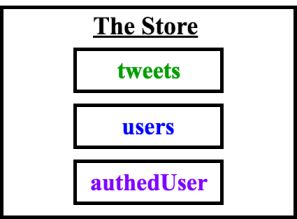
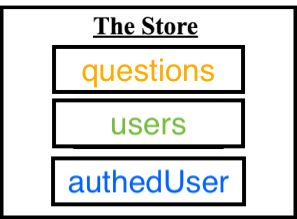
would-you-rather: planning: where does data live?

Changed region(s): [[0.1515, 0.1918, 0.8485, 0.6849], [0.1515, 0.7123, 0.8485, 0.9589], [0.3636, 0.5205, 0.6364, 0.6301]]

diff --git a/README.md b/README.md
@@ -262,7 +262,6 @@ The application will have the following components:
 - Leaderboard
 - User Stats
 
-
 ### What Events Happen in the App
 
 #### SignIn Component
@@ -270,6 +269,8 @@ The application will have the following components:
 ![signin](planning/images/events/01-signin.jpg)
 
 For the Signin component we need a list of users and by selecting a user with will set the user and authedUser and navigate to the Question list component.
+
+- Connected component (users, authedUser)
 
 #### Question List Component
 
@@ -280,6 +281,7 @@ For the Signin component we need a list of users and by selecting a user with wi
 
 So the action type for event this will probably be something like **GET_LIST_OF_QUESTIONS** or **GET_DATA**.
 
+- Connected component (questions, authedUser)
 
 #### Question Component
 
@@ -288,46 +290,46 @@ So the action type for event this will probably be something like **GET_LIST_OF_
 - We get a particular question from a list of questions.
 - We get the author of the specific question as we need the author name and avatar image
 
+- Connected component (questions, users)
 
 #### Question Detail Component
 
 - We get a specific Question from a list of questions.
-- We get the answer to a specific question from a list of questions.
 - We get the author of the specific question as we need the author name and avatar image
 
-If there is no answer from the authedUser
+If the authedUser is not in the `voteArray`
 
 ![question-detail](planning/images/events/03-question.jpg)
 
-  - they can answer the question.
-  - answering the question will use the method `_saveQuestionAnswer`
-  - once the answer is saved the screen will show the results 
+- we will need the author user to get the author's name and avatar.
+- they can answer the question (vote).
+- answering the question will use the method `_saveQuestionAnswer`
+- once the answer is saved the screen will show the results
 
-
-If there is an answer from the authedUser
+If the authedUser is in the `voteArray`
 
 ![question-detail](planning/images/events/03-question-answered.jpg)
 
-- then they can see their chosen answer and the number of people who voted for both options and the percentage of people who voted for the options is shown
-- we will need all the users data so we can collect the answers from the other users and tally a percentage.
+- they can see their chosen answer and the number of people who voted for both options and the percentage of people who voted for the options is shown
+- we can use the `voteArray` to tally a percentage for each option.
 
 ```
-users = {
-  sarahedo: {
-    answers: {
-      "8xf0y6ziyjabvozdd253nd": "optionOne",
-      "6ni6ok3ym7mf1p33lnez": "optionOne",
-    },
+"8xf0y6ziyjabvozdd253nd": {
+  id: "8xf0y6ziyjabvozdd253nd",
+  author: "sarahedo",
+  timestamp: 1467166872634,
+  optionOne: {
+    votes: ["sarahedo"],
+    text: "have horrible short term memory",
   },
-  tylermcginnis: {
-    answers: {
-      vthrdm985a262al8qx3do: "optionOne",
-      xj352vofupe1dqz9emx13r: "optionTwo",
-    },
-  }
-}
+  optionTwo: {
+    votes: [],
+    text: "have horrible long term memory",
+  },
+},
 ```
 
+- Connected component (questions, users, authedUser)
 
 #### Create Question Component
 
@@ -336,19 +338,133 @@ users = {
 - We get the authedUser so the user can create a new question.
 - We set the text options of the new question.
 - We need to call the `_saveQuestion` method here.
-
+- Connected component (questions, authedUser)
 
 #### Leaderboard Component
 
 ![leaderboard](planning/images/events/05-leaderboard.jpg)
 
 - We need to get the list of users for this component.
-- We need to sort the list of users by the sum of answer questions and questions created
+- We need to sort the list of users by the sum of `answers` and `questionsArray`
+- Connected component (users)
 
+```
+users = {
+  sarahedo: {
+    id: "sarahedo",
+    name: "Sarah Edo",
+    avatarURL: "../../images/snow.jpg",
+    answers: {
+      "8xf0y6ziyjabvozdd253nd": "optionOne",
+      "6ni6ok3ym7mf1p33lnez": "optionOne",
+      am8ehyc8byjqgar0jgpub9: "optionTwo",
+      loxhs1bqm25b708cmbf3g: "optionTwo",
+    },
+    questions: ["8xf0y6ziyjabvozdd253nd", "am8ehyc8byjqgar0jgpub9"],
+  },
+}
+```
 
 #### User Stats Component
 
 ![user-stats](planning/images/events/05-user-stats.jpg)
 
-- As we are sorting the list users in the Leaderboard component, we can just pass the specific information 
-(name, answered questions, created questions and total) to this User stats component.
+- As we are sorting the list users in the Leaderboard component, we can just pass the specific information
+  (name, answered questions, created questions and total) to this User stats component.
+
+### What Data Lives in the Store
+
+According to the Redux documentation, here are the principles of state normalization:
+
+- Each type of data gets its own "table" in the state.
+- Each "data table" should store the individual items in an object, with the IDs of the items as keys and the items themselves as the values.
+- Any references to individual items should be done by storing the item's ID.
+- Arrays of IDs should be used to indicate ordering.
+
+Looking at our initial question and user data:
+
+```
+let questions = {
+  "8xf0y6ziyjabvozdd253nd": {
+    id: "8xf0y6ziyjabvozdd253nd",
+    author: "sarahedo",
+    timestamp: 1467166872634,
+    optionOne: {
+      votes: ["sarahedo"],
+      text: "have horrible short term memory",
+    },
+    optionTwo: {
+      votes: [],
+      text: "have horrible long term memory",
+    },
+  },
+}
+
+let users = {
+  sarahedo: {
+    id: "sarahedo",
+    name: "Sarah Edo",
+    avatarURL: "../../images/snow.jpg",
+    answers: {
+      "8xf0y6ziyjabvozdd253nd": "optionOne",
+      "6ni6ok3ym7mf1p33lnez": "optionOne",
+      am8ehyc8byjqgar0jgpub9: "optionTwo",
+      loxhs1bqm25b708cmbf3g: "optionTwo",
+    },
+    questions: ["8xf0y6ziyjabvozdd253nd", "am8ehyc8byjqgar0jgpub9"],
+  }
+}
+```
+
+In our application, normalized state would look like this:
+
+```
+{
+  questions: {
+    questionId: {
+      author,
+      questionId
+      optionOne: { votesArray, text }
+      optionTwo: { votesArray, text }
+      timestamp
+    }
+  },
+  users: {
+    userId: {
+      answers: { questionId: {} }
+      avatarURL,
+      userId,
+      name,
+      questionsArray
+    }
+  },
+  authedUser: userId,
+  loadingBar
+}
+```
+
+Because the user is (mocked) logged in and the we need this authedUser when we create a question, vote on at question and sort questions on the home page, we will need to add the authUser to the store.
+
+Another reason we would want to keep the authedUser piece of data in the store is that we can logout and change the authedUser.
+
+#### The Store contains:
+
+- **tweets property**
+- **users property**
+- **authedUser property**.
+- **loadingBar property**.
+
+Our connected components are:
+- **SignIn** (users, authedUser)
+- **Question List** (questions, authedUser)
+- **Question** (questions, users)
+- **Question Detail** (questions, users, authedUser)
+- **Create Question** (questions, authedUser)
+- **Leaderboard** (users)
+
+#### Local state
+
+Our local state could be used in the `Create Question` component for user input when completing the form. It could also be used in the `Question List` component to toggle (tab: show/hide) the lists of `answered` and `unanswered` questions, this state is not needed else where and so is a good candidate for local state.
+
+
+![store](planning/images/store/store.jpg)
